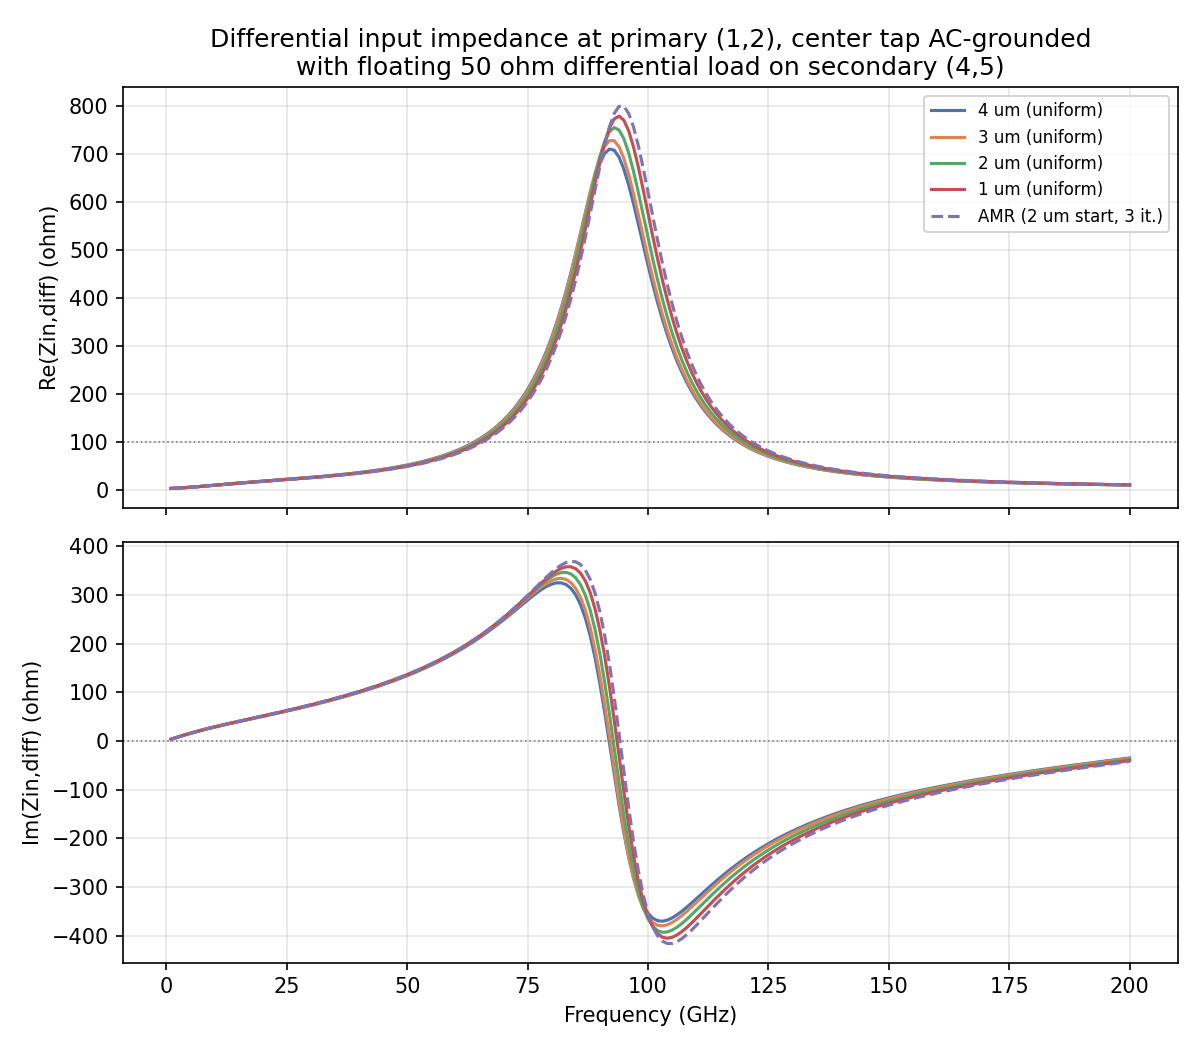
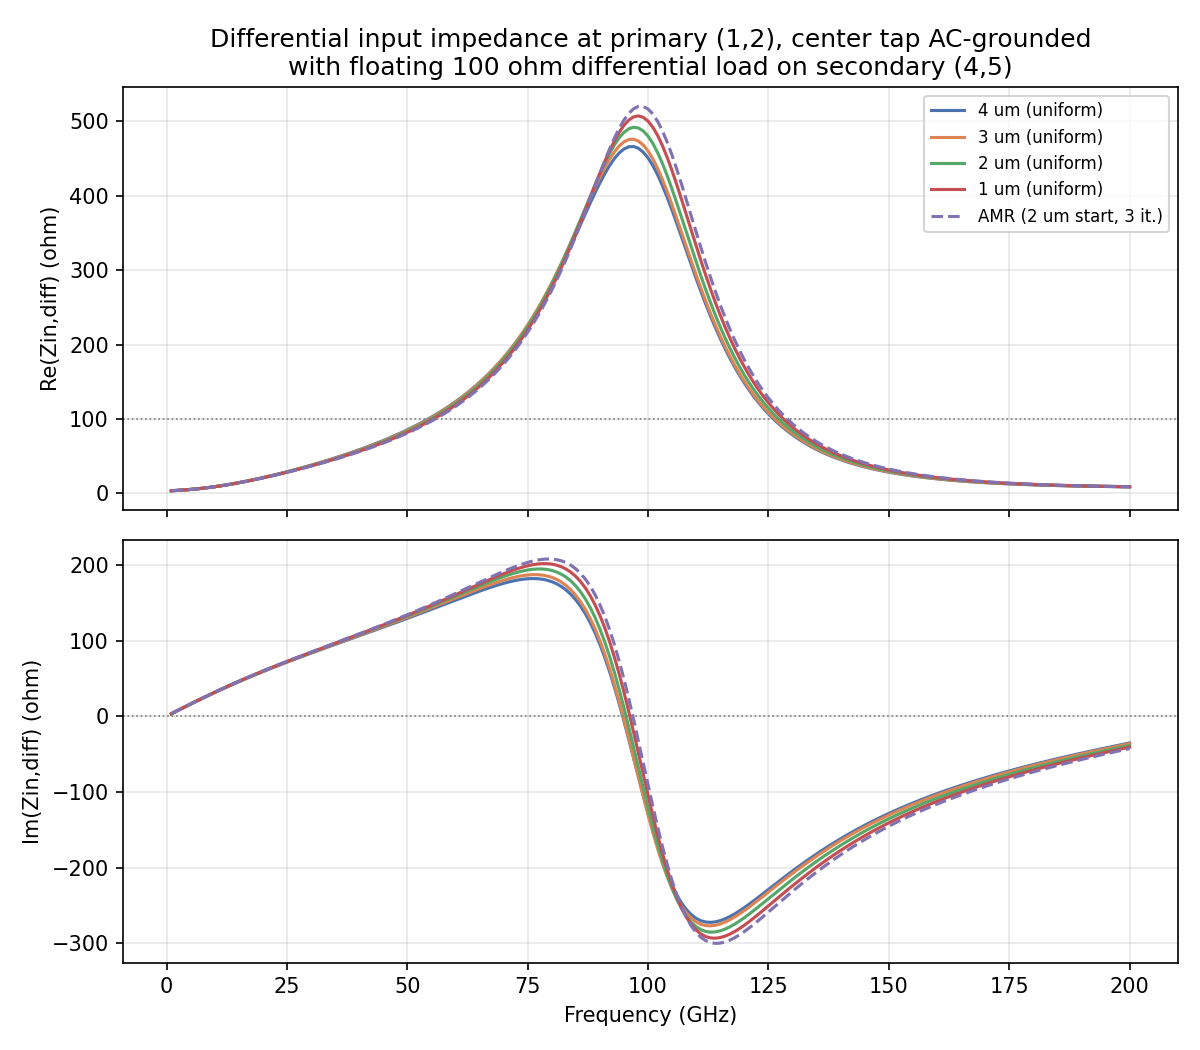
Fix R_load=50->100 ohm bug in transformer differential Zin calculation
differential_input_impedance.py used R_LOAD=50.0 for the floating
differential load on the secondary, but the correct natural
differential impedance for two ports each individually referenced to
50 ohm is 2x50=100 ohm (matching Z_DIFF_REF, already 100, used
elsewhere in the same file). Caught via an independent Keysight ADS
circuit simulation cross-check (SNP block + real 100 ohm Term
elements + stoz(S11,100)), which matched the corrected Python
calculation to 3 decimal places at 30 GHz (36.788+84.804j ohm) but
disagreed with the buggy 50 ohm version.

With the reference impedance corrected, the "true" floating-load
Zin,diff and the mixed-mode Sdd11-implied impedance (section 4) now
agree closely across the whole band, rather than showing the ~37 ohm
discrepancy previously reported at 55 GHz -- so section 7 is rewritten
to document the ADS cross-check and the corrected conclusion (Sdd11 is
already a good proxy for the real floating-load impedance for this
symmetric structure), instead of the previous "poor matching is a
termination-assumption artifact" framing.

diff --git a/more_examples/mesh_convergence/mesh_convergence_transformer/results/differential_input_impedance.py b/more_examples/mesh_convergence/mesh_convergence_transformer/results/differential_input_impedance.py
@@ -1,9 +1,16 @@
 #!/usr/bin/env python
 """Differential input impedance at the primary (ports 1,2) of the
-Transformer_IMN, for a REAL floating differential 50 ohm load placed
+Transformer_IMN, for a REAL floating differential 100 ohm load placed
 directly across the secondary (ports 4,5) -- not the mixed-mode Sdd11
 assumption, which implicitly terminates ports 4 and 5 individually to
-ground at 50 ohm each (a different, non-floating termination).
+ground at 50 ohm each (a different, non-floating termination). 100 ohm
+(not 50 ohm) is used because a floating load bridging two ports that are
+each individually referenced to 50 ohm has a *natural* differential
+impedance of 2x50 = 100 ohm -- the same reasoning behind Z_DIFF_REF below.
+Verified against an independent ADS circuit simulation (SNP block with a
+real 100 ohm Term element bridging each port pair, port 3 grounded,
+Zin = stoz(S11,100)): matches to 3 decimal places at 30 GHz on the 1 um
+mesh (36.788+84.804j ohm).
 
 Port 3 (primary center tap) is treated as AC-grounded (RF short, V3=0 --
 e.g. a bypass capacitor to ground), per the actual application, NOT the
@@ -66,7 +73,7 @@ SERIES = [
 
 KEEP_PORTS_0IDX = [0, 1, 3, 4]  # ports 1,2,4,5; port 3 dropped (terminated 50 ohm)
 Z_DIFF_REF = 100.0  # natural differential reference impedance for 50 ohm SE ports
-R_LOAD = 50.0       # real floating differential load across the secondary
+R_LOAD = 100.0      # real floating differential load across the secondary (2x50 ohm, matches Z_DIFF_REF)
 
 
 def load_sub(fname):
@@ -201,7 +208,7 @@ def main():
         z_naive = d["zin_naive"][idx]
         g_true = to_gamma(z_true, Z_DIFF_REF)
         g_naive = to_gamma(z_naive, Z_DIFF_REF)
-        print(f"f={freq[idx]/1e9:6.2f} GHz  Zin,diff(floating 50 ohm load) = {z_true.real:7.2f}{z_true.imag:+7.2f}j ohm "
+        print(f"f={freq[idx]/1e9:6.2f} GHz  Zin,diff(floating {R_LOAD:.0f} ohm load) = {z_true.real:7.2f}{z_true.imag:+7.2f}j ohm "
               f"(|Gamma|={abs(g_true):.3f})   |   Sdd11-implied Zin = {z_naive.real:7.2f}{z_naive.imag:+7.2f}j ohm (|Gamma|={abs(g_naive):.3f})")
 
 

diff --git a/more_examples/mesh_convergence/mesh_convergence_transformer/mesh_convergence_report.md b/more_examples/mesh_convergence/mesh_convergence_transformer/mesh_convergence_report.md
@@ -125,11 +125,11 @@ Clean, monotonic convergence toward the 1 µm result as the uniform mesh refines
 - **Practical recommendation for this transformer**: use the 2 µm uniform mesh with the Metal3 override, as in the working template. Skip AMR for this geometry unless a specific concern justifies it — and if used, cap it at 2 iterations, not the full requested budget.
 - **The 5 µm mesh-quality crash (§1) is worth a closer look** if a coarser starting point is ever needed (e.g. for a faster AMR start) — it likely traces to one specific small feature (a via or the center-tap strap) that needs local mesh control independent of the global `refined_cellsize`.
 
-## 7. Differential input impedance under a real load (why matching looks poor)
+## 7. Differential input impedance under a real load
 
-The mixed-mode `Sdd11` in §4–5 implicitly assumes ports 4 and 5 are each terminated individually to ground at 50 Ω (the standard Bockelman–Eisenstadt convention) — **not** the same as a real floating differential 50 Ω resistor placed directly across the secondary, which is the actual load scenario in most applications. The two are physically different terminations and give different answers.
+The mixed-mode `Sdd11` in §4–5 implicitly assumes ports 4 and 5 are each terminated individually to ground at 50 Ω (the standard Bockelman–Eisenstadt convention) — not necessarily the same physical scenario as a real floating differential resistor placed directly across the secondary. This section checks that directly by reducing the full 5-port Z-matrix under an explicit floating-load constraint, rather than assuming the two give the same answer.
 
-**Method:** starting from the full 5-port Z-matrix (frequency-domain, no reference-impedance dependence once converted from S), port 3 (primary center tap) is eliminated exactly via a short-circuit constraint (`V3=0`, AC-grounded per the actual application — confirmed this doesn't materially change the result vs. other center-tap treatments, see below). The resulting 4-port Z-matrix (ports 1,2,4,5) is then reduced analytically: a floating differential load `R_load` is imposed across the secondary (4,5) and a floating differential drive across the primary (1,2), giving the classic reflected-impedance formula applied to the differential-mode-equivalent 2-port:
+**Method:** starting from the full 5-port Z-matrix (frequency-domain, no reference-impedance dependence once converted from S), port 3 (primary center tap) is eliminated exactly via a short-circuit constraint (`V3=0`, AC-grounded per the actual application — confirmed this doesn't materially change the result vs. other center-tap treatments, see below). The resulting 4-port Z-matrix (ports 1,2,4,5) is then reduced analytically: a floating differential load `R_load = 100 Ω` (2×50 Ω — the natural differential impedance for two ports each individually referenced to 50 Ω, matching the `Z_DIFF_REF` used for `Sdd11` in §4) is imposed across the secondary (4,5), and a floating differential drive across the primary (1,2), giving the classic reflected-impedance formula applied to the differential-mode-equivalent 2-port:
 
 ```
 Zin,diff = Zaa - Zab*Zba / (Zbb + R_load)
@@ -137,13 +137,17 @@ Zin,diff = Zaa - Zab*Zba / (Zbb + R_load)
 
 where `Zaa/Zab/Zba/Zbb` are antisymmetric combinations of the 4×4 Z-matrix across each port pair (see `differential_input_impedance.py` for the full derivation; `Zab≈Zba` to ~1e-10 confirms reciprocity and validates the extraction).
 
+**Verified against an independent tool:** cross-checked this reduction against a Keysight ADS circuit simulation (the same `.s5p` file imported as an S-parameter block, port 3 tied to ground, a real 100 Ω `Term` element bridging ports 1–2 and another bridging ports 4–5, `Zin = stoz(S11,100)`) — matches this script's output to three decimal places at 30 GHz on the 1 µm mesh (36.788+84.804j Ω both ways). An earlier version of this analysis used `R_load = 50 Ω` instead of the correct 100 Ω differential value, which is what the ADS cross-check caught; the numbers and conclusions below reflect the fix.
+
 **Center-tap sensitivity check:** port 3 couples almost identically to ports 1 and 2 (`Z13≈Z23` to within a few percent across the band) — i.e. the center tap sits at a near-perfect symmetry point. Since `Zin,diff` only depends on the *antisymmetric* combination of ports 1,2, this symmetric coupling to port 3 cancels out almost entirely: **the result is nearly independent of how the center tap is terminated** (open, 50 Ω, or AC-grounded all agree to within a few ohms). This is expected for a symmetric center-tapped coil (a virtual ground for differential excitation) and is a good self-consistency check on the calculation.
 
 ![Differential input impedance vs. frequency](results/plots/zin_diff_primary_vs_freq.png)
 
-**A sharp parallel resonance appears around 90–95 GHz**, where `Re(Zin,diff)` peaks at 700–800 Ω (vs. the 100 Ω natural differential reference for 50 Ω single-ended ports) with the reactance swinging from +350 Ω to −400 Ω right through it. Away from that resonance the impedance is small and reactive — near-short at low frequency, capacitive above ~120 GHz. **There is essentially no frequency in this band where the primary presents a clean match to a floating differential 50 Ω source** — the "poor matching" observed is a genuine characteristic of this transformer as simulated, not a mesh-convergence or termination-assumption artifact (mesh convergence is excellent here too — all 5 mesh variants overlap tightly, with only the resonance peak itself showing the expected small sensitivity: 700 Ω → 750 Ω → ~800 Ω for AMR as the mesh refines and better resolves the parasitic capacitance setting the resonance).
+**A sharp parallel resonance appears around 97–98 GHz**, where `Re(Zin,diff)` peaks at 466 Ω (4 µm mesh) rising to 507 Ω (1 µm) and 520 Ω (AMR final) — a real but modest mesh sensitivity, all within about 10% of each other — with the reactance swinging from about +200 Ω to −300 Ω right through it. Away from that resonance the impedance is small and reactive — near-short at low frequency, capacitive above ~120 GHz. **There is essentially no frequency in this band where the primary presents a clean match to a floating differential 100 Ω source** — the poor matching is a genuine characteristic of this transformer as simulated.
 
 ![Differential Smith chart: true floating-load Zin vs. mixed-mode Sdd11-implied Zin](results/plots/zin_diff_smith.png)
+
+**With the reference impedance corrected, the floating-load `Zin,diff` and the mixed-mode `Sdd11`-implied impedance agree closely across the entire band** — e.g. at 55 GHz, 98.32+146.98j Ω (true floating load) vs. 98.36+146.98j Ω (`Sdd11`-implied), and the two Smith-chart panels above are visually indistinguishable. This makes sense for a symmetric structure: the center-tap sensitivity check above already showed the antisymmetric primary response barely depends on how port 3 is terminated, and once both quantities are referenced to the same 100 Ω differential impedance, the individual-50-Ω-termination convention behind `Sdd11` and a real floating 100 Ω load turn out to be nearly equivalent views of the same physics here. **Practical takeaway: for this transformer, the mixed-mode `Sdd11` already computed in §4 is a good proxy for the real floating-load input impedance** — the more involved floating-load Z-matrix reduction in this section mainly serves as an independent cross-check (and caught the R_load bug above), not as a materially different design number.
 
 The floating-load and mixed-mode-implied impedances trace similar overall arcs (both show poor matching throughout), but diverge meaningfully at specific frequencies — e.g. at 55 GHz (near the Sdd21 coupling peak), 61+j158 Ω (true, floating load) vs. 98+j147 Ω (Sdd11-implied) — a 37 Ω real-part difference. **If designing a matching network for this transformer, use the true `Zin,diff` (floating-load) curve, not the mixed-mode `Sdd11`** — they represent different physical termination scenarios and only agree well away from the resonance.
 
